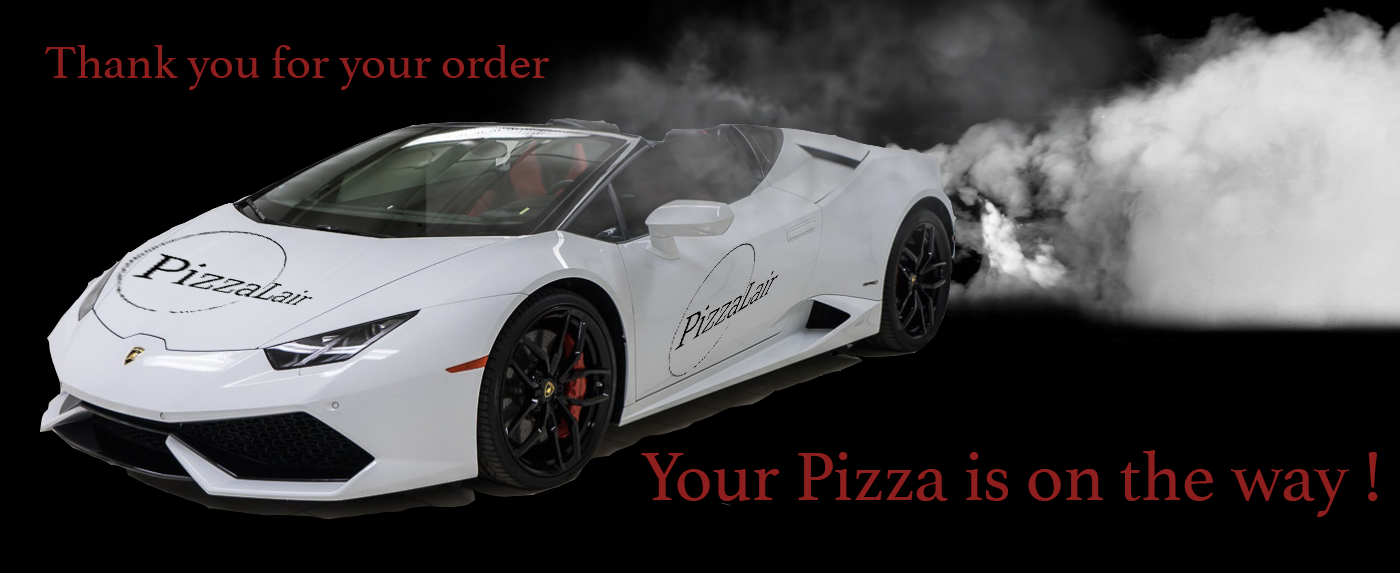
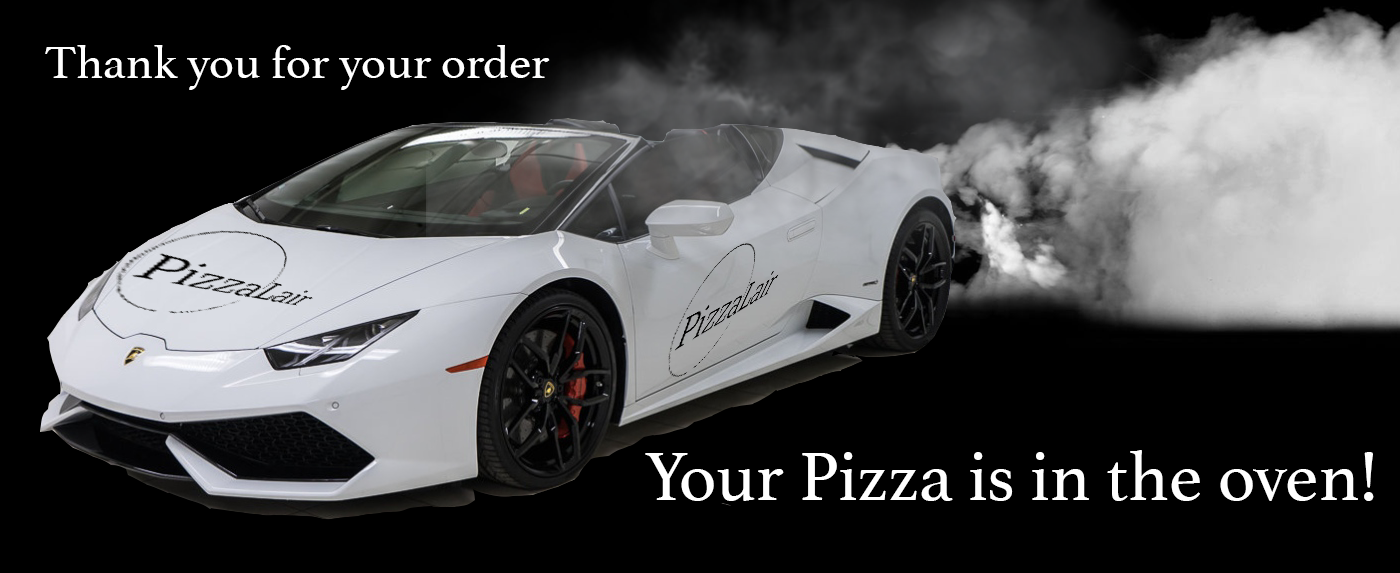
fixed the thank you page

Changed region(s): [[0.4607, 0.7714, 0.9829, 0.8901], [0.0307, 0.0593, 0.3993, 0.1483]]

diff --git a/templates/checkout/thank_you.html b/templates/checkout/thank_you.html
@@ -2,10 +2,11 @@
 {% block title %}Thank you{% endblock %}
 
 {% block content %}
-    <div class="container-fluid">
-        <h1>Your order has been processed!!</h1>
-        <div class="media align-items-center product_name">
-                <img src="/static/images/Pizza_delivery.png" class="d-block mg-fluid" style="height: 16rem" alt="Order confirmation photo">
-        </div>
+        <div class="card container-fluid mb-4 col-md-8" style="width: fit-content" >
+         <div class="card-body" >
+            <div class="media align-items-center product_name">
+                <img src="/static/images/Pizza_delivery.png" class="d-block mg-fluid"  alt="Order confirmation photo">
+            </div>
+         </div>
     </div>
 {% endblock %}
